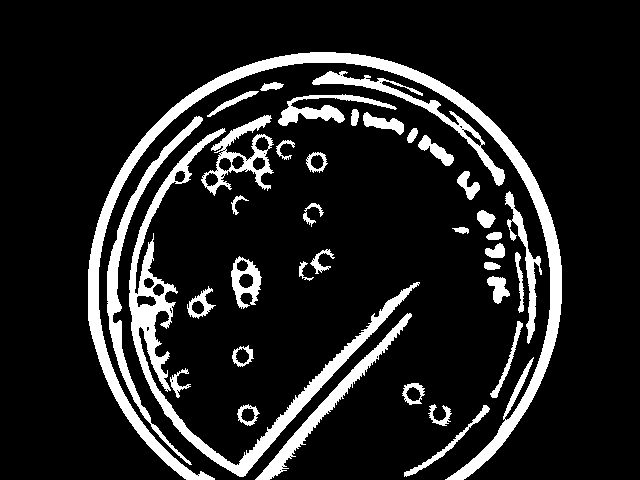
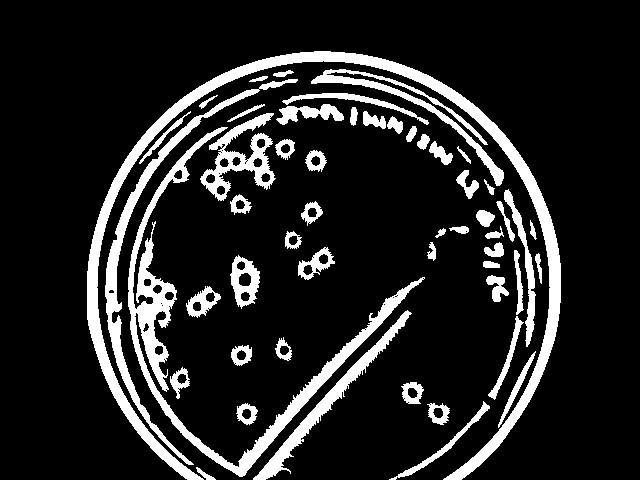
Update resize

diff --git a/opencv_process.py b/opencv_process.py
@@ -3,14 +3,20 @@ import os
 import numpy as np
 from skimage import morphology
 
-img = cv2.imread('bacteria_img/SAMPLE_12.png')
-name = "SAMPLE_12"
+img = cv2.imread('bacteria_img/SAMPLE_13.jpg')
+name = "SAMPLE_13"
 
 # Save original
-cv2.imwrite(os.path.join('output', f"{name}_original.png"), img)
+cv2.imwrite(os.path.join('output', f"{name}_original.jpg"), img)
+
 
 # Grayscale image
 def Grayscale_image(image):
+    h,w = img.shape[:2]
+    new_width = 500
+    ratio = new_width/w
+    new_height = int(h*ratio)
+    image = cv2.resize(image, (new_width,new_height))
     gray = cv2.cvtColor(image, cv2.COLOR_BGR2GRAY)
     gray = cv2.GaussianBlur(gray, (7, 7), 0)
     return gray
@@ -69,7 +75,6 @@ def clean_image(image):
     return clean
 
 clean = clean_image(masked)
-
 cv2.imshow("Cleaned Image",clean)
 cv2.waitKey(0)
 
@@ -96,7 +101,7 @@ cv2.imshow("Thresholded Image",thresholded)
 cv2.waitKey(0)
 
 x_t,y_t,r_t = detect_dish(thresholded)
-Thresholded_inner = apply_mask(thresholded,x_t,y_t,r_t-30)
+Thresholded_inner = apply_mask(thresholded,x_t,y_t,r_t-45)
 cv2.imshow("Inner Thresholded Image",Thresholded_inner)
 cv2.waitKey(0)
 
@@ -118,36 +123,4 @@ Watershed segmentation
 Count separated colonies
 """
 
-def remove_large_artifacts(binary_image, min_area=20, max_area=800, max_aspect_ratio=3):
-    num_labels, labels, stats, centroids = cv2.connectedComponentsWithStats(
-        binary_image,
-        connectivity=8
-    )
-
-    cleaned = np.zeros_like(binary_image)
-
-    for i in range(1, num_labels):  # skip background
-        area = stats[i, cv2.CC_STAT_AREA]
-        width = stats[i, cv2.CC_STAT_WIDTH]
-        height = stats[i, cv2.CC_STAT_HEIGHT]
-
-        if width == 0 or height == 0:
-            continue
-
-        aspect_ratio = max(width, height) / min(width, height)
-
-        if area >= min_area and area <= max_area and aspect_ratio <= max_aspect_ratio:
-            cleaned[labels == i] = 255
-
-    return cleaned
-
-artifact_removed = remove_large_artifacts(
-    Thresholded_inner,
-    min_area=20,
-    max_area=800,
-    max_aspect_ratio=3
-)
-
-cv2.imshow("Large Artifacts Removed", artifact_removed)
-cv2.waitKey(0)
 

diff --git a/bacteria_siren.py b/bacteria_siren.py
@@ -27,7 +27,6 @@ def set_file_name():
     return file_name
 
 # Image Capturing 
-cam = cv.VideoCapture(1)
 
 while True:
     ret, frame = cam.read()